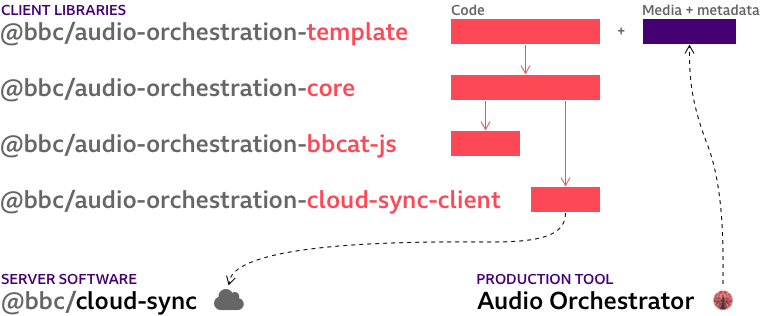
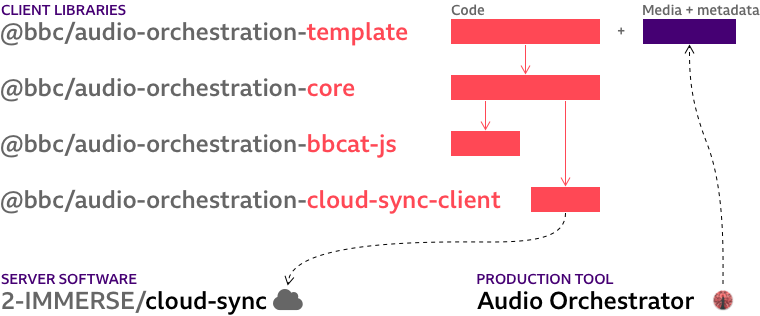
Replace references to cloud-sync to point to original 2-IMMERSE repository instead of BBC fork.

Changed region(s): [[0.0, 0.8544, 0.4237, 0.9968], [0.3934, 0.769, 0.5145, 0.7975], [0.3329, 0.7975, 0.3632, 0.8259]]

diff --git a/packages/template/Readme.md b/packages/template/Readme.md
@@ -20,7 +20,7 @@ npm run dev
 
 The build will be hosted at http://localhost:8080 and automatically refresh on most changes to the source code.
 
-If you are not using the template with _Audio Orchestrator_, you may have to set up your synchronisation server. Instructions on how to do this are given in the [Cloud Sync repository](https://github.com/bbc/cloud-sync). Configure the template with the server address by uncommenting and editing one of the examples for the `SYNC_ENDPOINT` option in `src/index.html`. Reload the page in your browser to apply any changes to the configuration.
+If you are not using the template with _Audio Orchestrator_, you may have to set up your synchronisation server. Instructions on how to do this are given in the [Cloud Sync repository](https://github.com/2-IMMERSE/cloud-sync). Configure the template with the server address by uncommenting and editing one of the examples for the `SYNC_ENDPOINT` option in `src/index.html`. Reload the page in your browser to apply any changes to the configuration.
 
 ## Adding media and metadata
 

diff --git a/Readme.md b/Readme.md
@@ -10,7 +10,7 @@ Audio device orchestration is the concept of using multiple connected devices to
 
 We provide a **template** application which can easily be extended to customise the user interface. It uses our **core** library for managing the connected devices, synchronisation, and audio rendering. This in turn uses our internal helper libraries: **bbcat-js** (audio streaming) and **cloud-sync-client** (connection to the synchronisation server).
 
-The [**Cloud-Sync** server](https://github.com/bbc/cloud-sync) source code is published separately on GitHub. To use the template and examples in this repository, you will need to set up a Cloud-Sync server.
+The [**Cloud-Sync** server](https://github.com/2-IMMERSE/cloud-sync) source code is published separately on GitHub. To use the template and examples in this repository, you will need to set up a Cloud-Sync server.
 
 More detailed information about each of the packages is available in the respective Readme files.
 

diff --git a/packages/cloud-sync-client/Readme.md b/packages/cloud-sync-client/Readme.md
@@ -1,6 +1,6 @@
 # cloud-sync-client
 
-This is a fork of [2-IMMERSE/cloud-sync](https://github.com/2-IMMERSE/cloud-sync) to provide a self-contained and slightly modernised build of the client only. A more recently updated version of the server software is available in [bbc/cloud-sync](https://github.com/bbc/cloud-sync).
+This is a fork of [2-IMMERSE/cloud-sync](https://github.com/2-IMMERSE/cloud-sync) to provide a self-contained and slightly modernised build of the client only. The original repository still contains the server software.
 
 ## Changes
 
